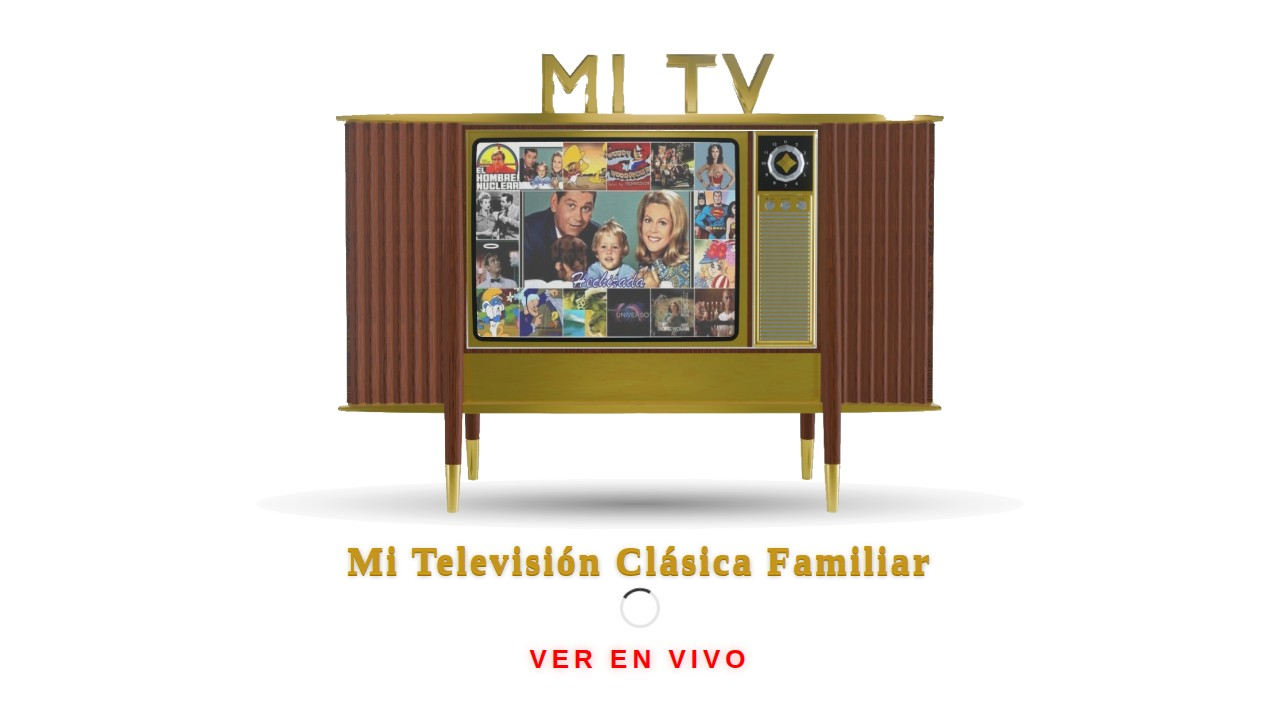
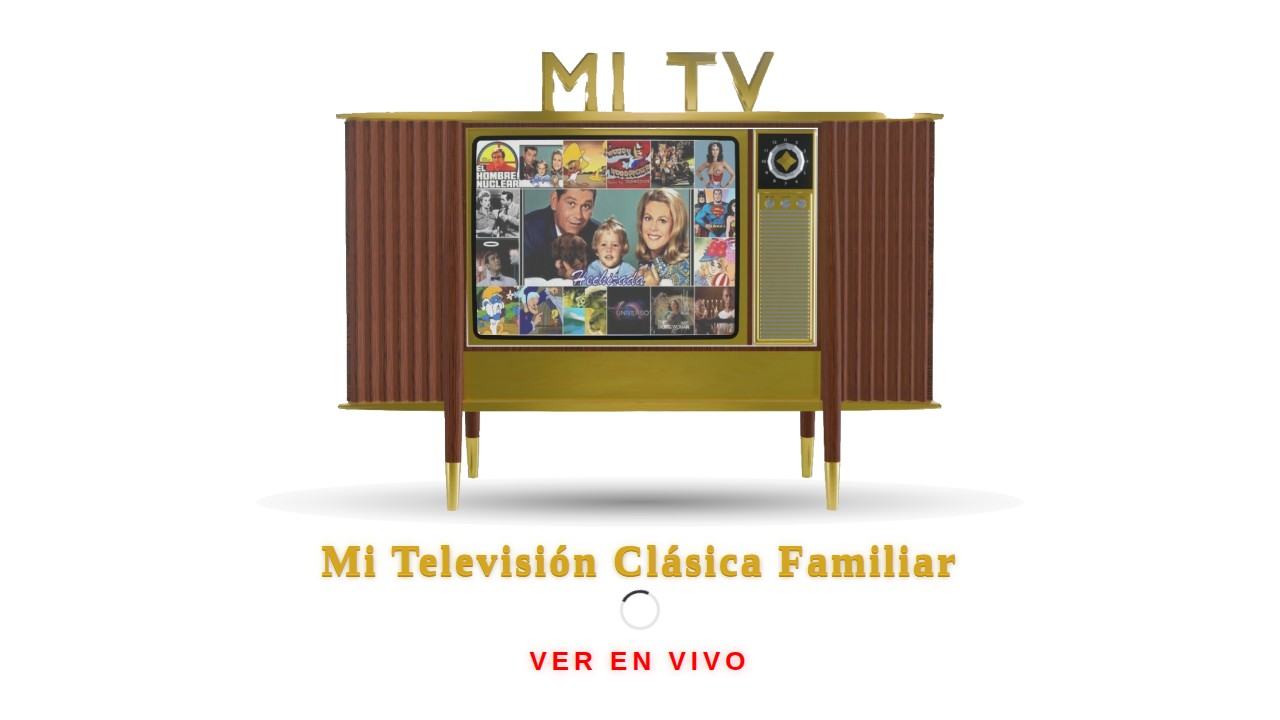
Brighter gold title matching gallery + cache-busting for screenshots

diff --git a/gallery.html b/gallery.html
@@ -6,7 +6,7 @@
 <title>MI TELEVISIÓN CLÁSICA FAMILIAR - App Preview</title>
 <style>
 body { font-family: Arial, sans-serif; background: #ffffff; text-align: center; padding: 20px; }
-h1 { color: #c5941a; font-weight: 900; font-family: 'Georgia', 'Times New Roman', serif; letter-spacing: 3px; text-shadow: 0 1px 0 #d4a520, 0 2px 0 #b8860b, 0 3px 0 #a07508, 0 4px 6px rgba(0, 0, 0, 0.3), 0 0 8px rgba(197, 148, 26, 0.2); }
+h1 { color: #d4a520; font-weight: 900; font-family: 'Georgia', 'Times New Roman', serif; letter-spacing: 3px; text-shadow: 0 1px 0 #e6b830, 0 2px 0 #c5941a, 0 3px 0 #b8860b, 0 4px 6px rgba(0, 0, 0, 0.25), 0 0 10px rgba(212, 165, 32, 0.3); }
 h2 { color: #666; margin-top: 30px; }
 img { max-width: 100%; border: 1px solid #eee; border-radius: 8px; margin: 10px 0; }
 </style>
@@ -16,9 +16,9 @@ img { max-width: 100%; border: 1px solid #eee; border-radius: 8px; margin: 10px 
 <p>Samsung Smart TV App - Design Preview</p>
 
 <h2>Loading Screen</h2>
-<img src="screenshots_loading.jpg" alt="Loading Screen">
+<img src="screenshots_loading.jpg?v=21" alt="Loading Screen">
 
 <h2>Player View (while streaming)</h2>
-<img src="screenshots_player.jpg" alt="Player View">
+<img src="screenshots_player.jpg?v=21" alt="Player View">
 </body>
 </html>

diff --git a/css/style.css b/css/style.css
@@ -82,18 +82,18 @@ body {
 }
 
 #loading-screen .app-title {
-    font-size: 56px;
+    font-size: 60px;
     font-weight: 900;
-    color: #c5941a;
+    color: #d4a520;
     letter-spacing: 3px;
     margin-bottom: 8px;
     text-align: center;
     text-shadow:
-        0 1px 0 #d4a520,
-        0 2px 0 #b8860b,
-        0 3px 0 #a07508,
-        0 4px 6px rgba(0, 0, 0, 0.3),
-        0 0 8px rgba(197, 148, 26, 0.2);
+        0 1px 0 #e6b830,
+        0 2px 0 #c5941a,
+        0 3px 0 #b8860b,
+        0 4px 6px rgba(0, 0, 0, 0.25),
+        0 0 10px rgba(212, 165, 32, 0.3);
     font-family: 'Georgia', 'Times New Roman', serif;
 }
 
